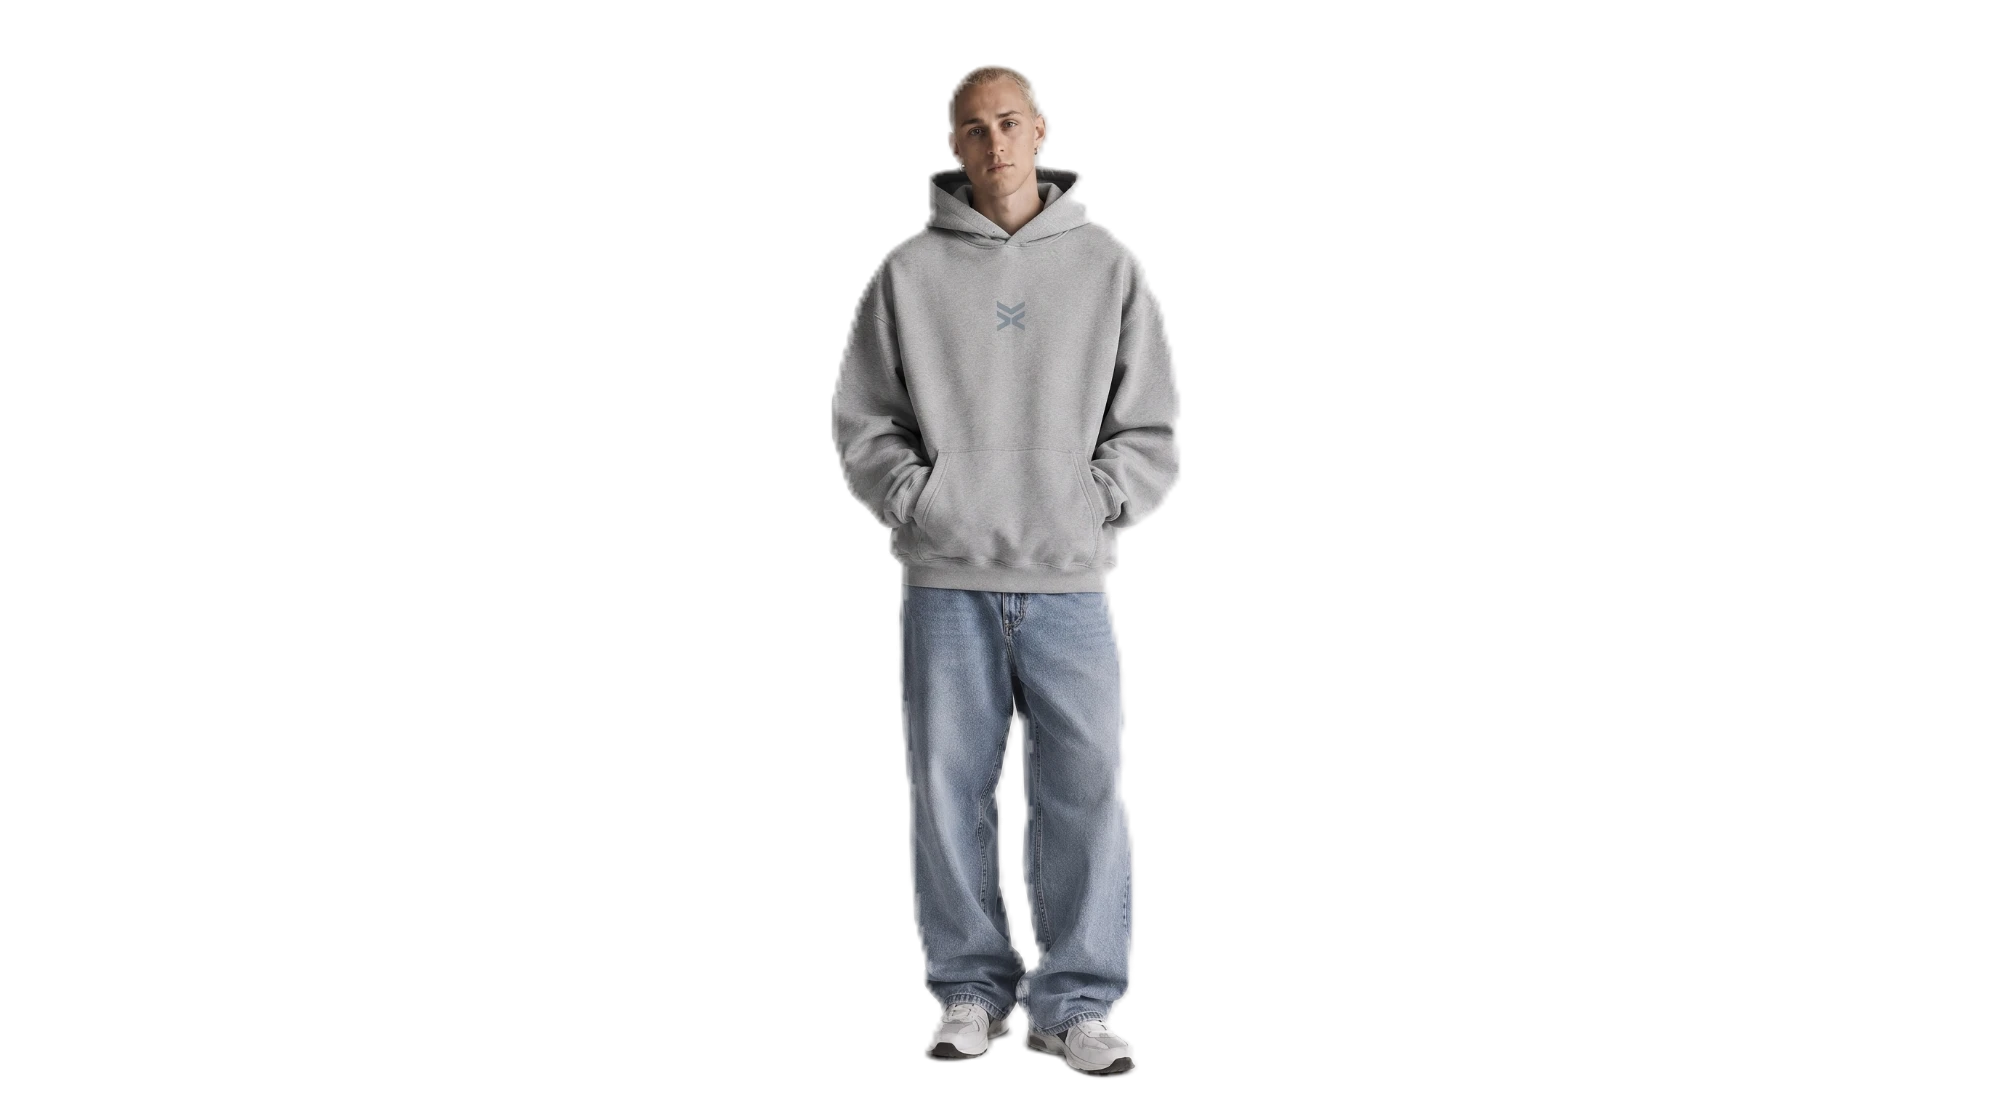
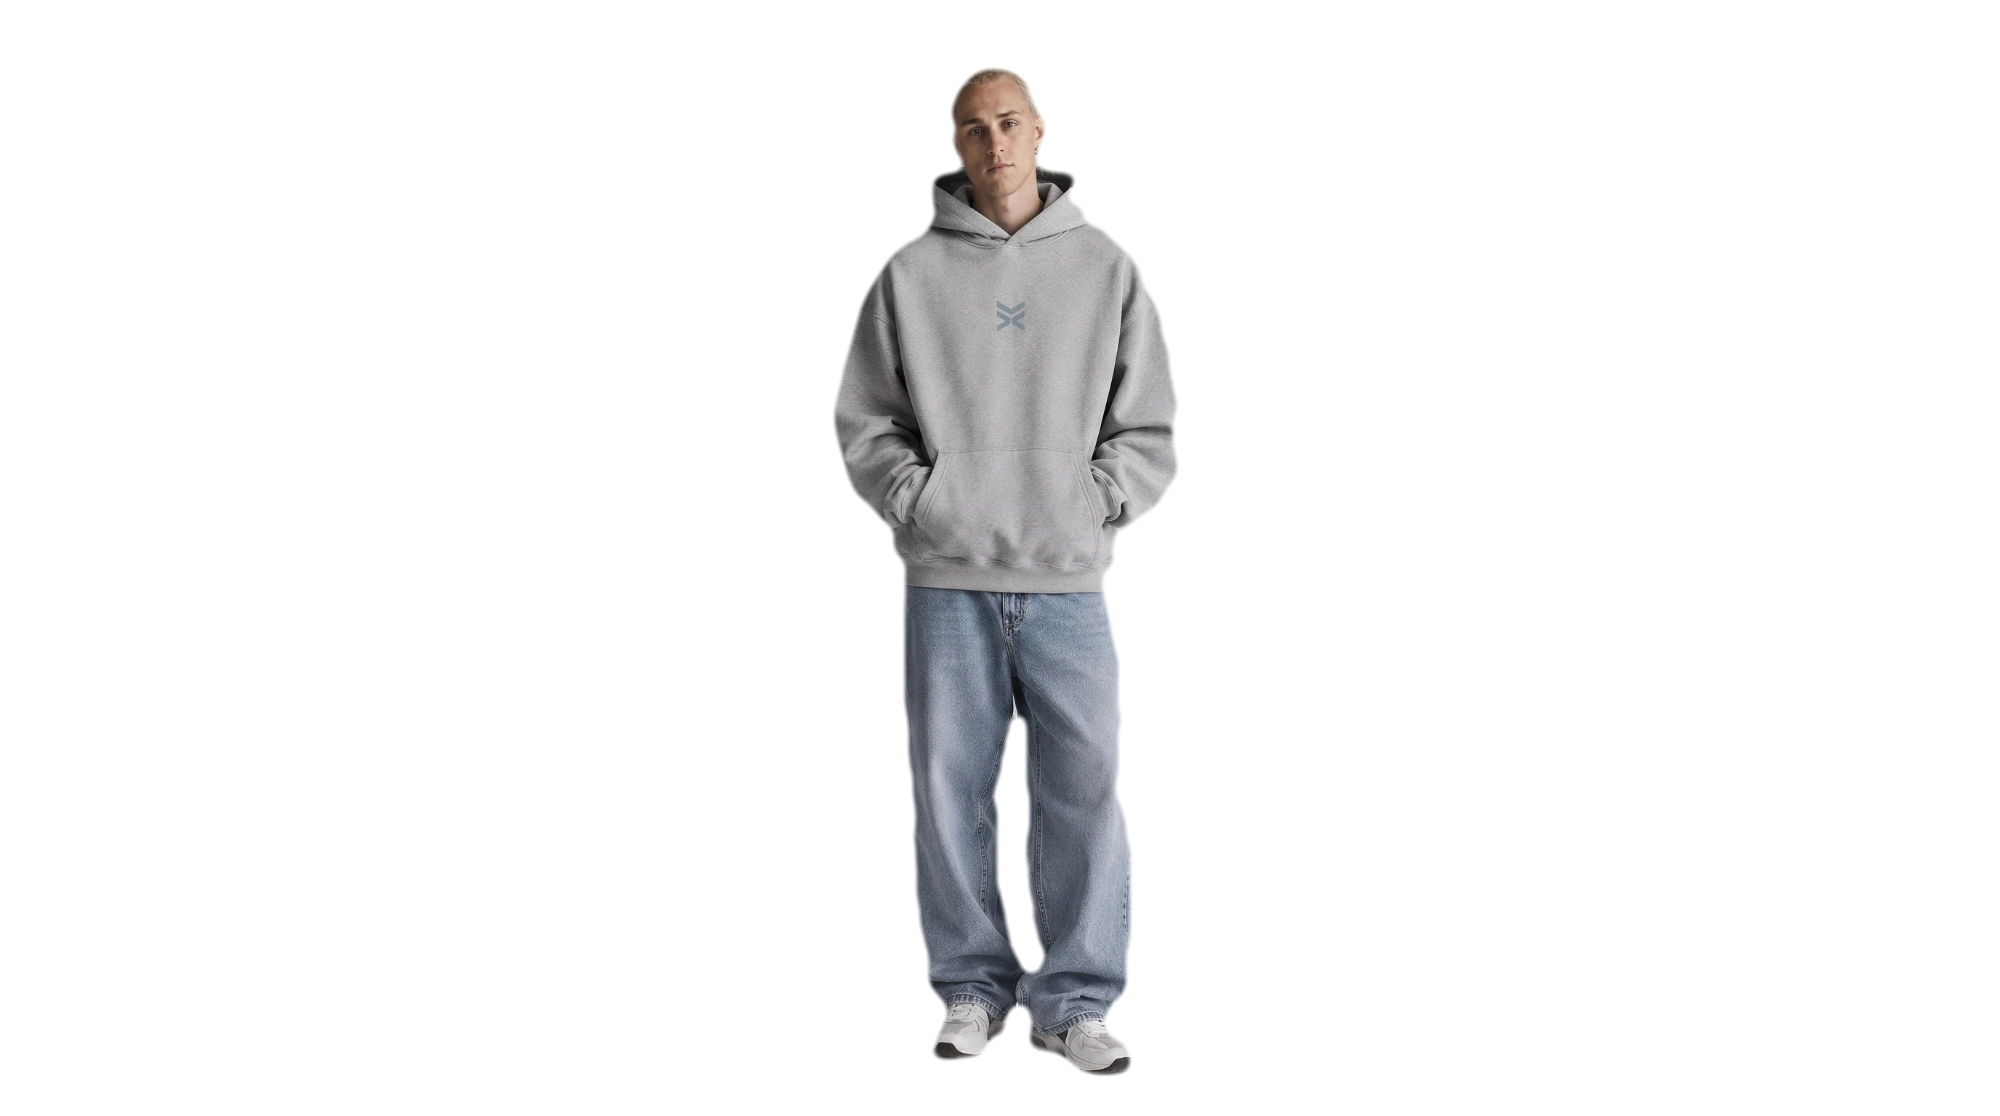
Add files via upload

diff --git a/index.html b/index.html
@@ -141,6 +141,14 @@
     <div class="fx-nav" style="padding-bottom:20px;display:flex;align-items:center;justify-content:space-between;gap:16px;position:relative;z-index:6;">
         <img src="_ds/futxo-new-design-system-019e2924-b909-7ba1-a1c1-df77da433c3b/assets/mark.png" alt="FUTXO" style="width:52px;height:52px;object-fit:contain;">
         <div style="display:flex;align-items:center;gap:12px;flex-wrap:wrap;">
+          <div class="fx-hero-social" style="display:flex;align-items:center;gap:8px;margin-right:6px;">
+          <a href="https://www.instagram.com/futxoofficial" target="_blank" rel="noopener" aria-label="Instagram @futxoofficial" style="width:40px;height:40px;border-radius:999px;border:1px solid #3a3a3a;display:flex;align-items:center;justify-content:center;color:var(--fg);">
+            <svg width="18" height="18" viewBox="0 0 24 24" fill="none" stroke="var(--fg)" stroke-width="1.5" stroke-linecap="round" stroke-linejoin="round"><rect x="3" y="3" width="18" height="18" rx="5"></rect><circle cx="12" cy="12" r="4"></circle><circle cx="17.5" cy="6.5" r="0.6" fill="var(--fg)"></circle></svg>
+          </a>
+          <a href="https://www.tiktok.com/@futxoofficial" target="_blank" rel="noopener" aria-label="TikTok @futxoofficial" style="width:40px;height:40px;border-radius:999px;border:1px solid #3a3a3a;display:flex;align-items:center;justify-content:center;color:var(--fg);">
+            <svg width="18" height="18" viewBox="0 0 24 24" fill="none" stroke="var(--fg)" stroke-width="1.5" stroke-linecap="round" stroke-linejoin="round"><path d="M14 4v9.5a3.5 3.5 0 1 1-3-3.46"></path><path d="M14 4c0 2.5 2 4.5 4.5 4.5"></path></svg>
+          </a>
+        </div>
           <div class="fx-nav-links" style="display:flex;gap:20px;padding:6px 10px;">
             <a href="#capsule01-section" style="font-family:var(--font-sans);font-weight:700;font-size:12px;letter-spacing:var(--tracking-label);text-transform:uppercase;color:var(--fg);text-decoration:underline;">{{ t.navDrops }}</a>
             <a href="https://futxo.com" target="_blank" rel="noopener" style="font-family:var(--font-sans);font-weight:700;font-size:12px;letter-spacing:var(--tracking-label);text-transform:uppercase;color:var(--fg);text-decoration:underline;">{{ t.navShop }}</a>
@@ -163,14 +171,7 @@
           <div class="fx-mq-track fx-mq-r" style="font-family:var(--font-display);font-weight:800;font-size:24vh;font-size:min(24cqh,17cqw);line-height:0.78;letter-spacing:var(--tracking-display);text-transform:uppercase;color:#0D0D0D;"><div class="fx-mq-g" style="display:flex;flex-shrink:0;"><span>LIVE IT</span></div></div>
         </div>
         <h1 style="position:absolute;width:1px;height:1px;overflow:hidden;clip:rect(0 0 0 0);white-space:nowrap;">{{ t.heroHeadline }}</h1>
-        <div class="fx-hero-social" style="position:absolute;top:16px;right:16px;z-index:10;display:flex;gap:10px;">
-          <a href="https://www.instagram.com/futxoofficial" target="_blank" rel="noopener" aria-label="Instagram @futxoofficial" style="width:48px;height:48px;border-radius:999px;border:1px solid #3a3a3a;background:rgba(27,27,27,0.72);display:flex;align-items:center;justify-content:center;color:var(--fg);">
-            <svg width="22" height="22" viewBox="0 0 24 24" fill="none" stroke="var(--fg)" stroke-width="1.5" stroke-linecap="round" stroke-linejoin="round"><rect x="3" y="3" width="18" height="18" rx="5"></rect><circle cx="12" cy="12" r="4"></circle><circle cx="17.5" cy="6.5" r="0.6" fill="var(--fg)"></circle></svg>
-          </a>
-          <a href="https://www.tiktok.com/@futxoofficial" target="_blank" rel="noopener" aria-label="TikTok @futxoofficial" style="width:48px;height:48px;border-radius:999px;border:1px solid #3a3a3a;background:rgba(27,27,27,0.72);display:flex;align-items:center;justify-content:center;color:var(--fg);">
-            <svg width="22" height="22" viewBox="0 0 24 24" fill="none" stroke="var(--fg)" stroke-width="1.5" stroke-linecap="round" stroke-linejoin="round"><path d="M14 4v9.5a3.5 3.5 0 1 1-3-3.46"></path><path d="M14 4c0 2.5 2 4.5 4.5 4.5"></path></svg>
-          </a>
-        </div>
+        
       </div>
       <div class="fx-hx-col" style="display:flex;flex-direction:column;justify-content:space-between;gap:40px;padding:40px 32px 36px;box-sizing:border-box;min-width:0;">
         <div style="display:flex;flex-direction:column;gap:44px;">
